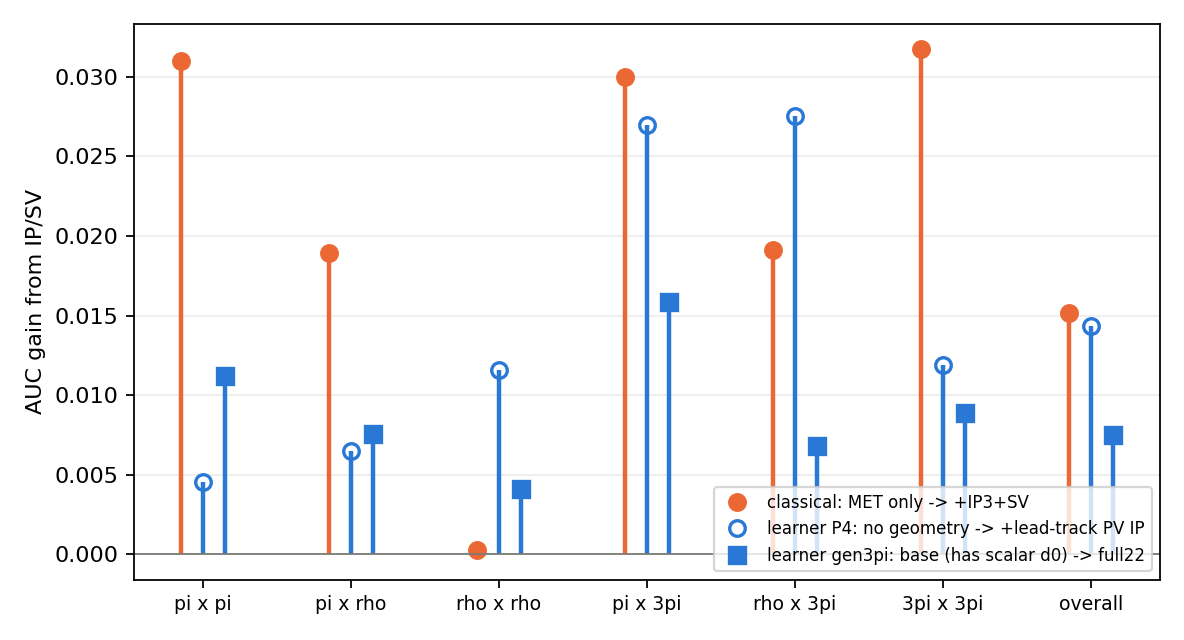
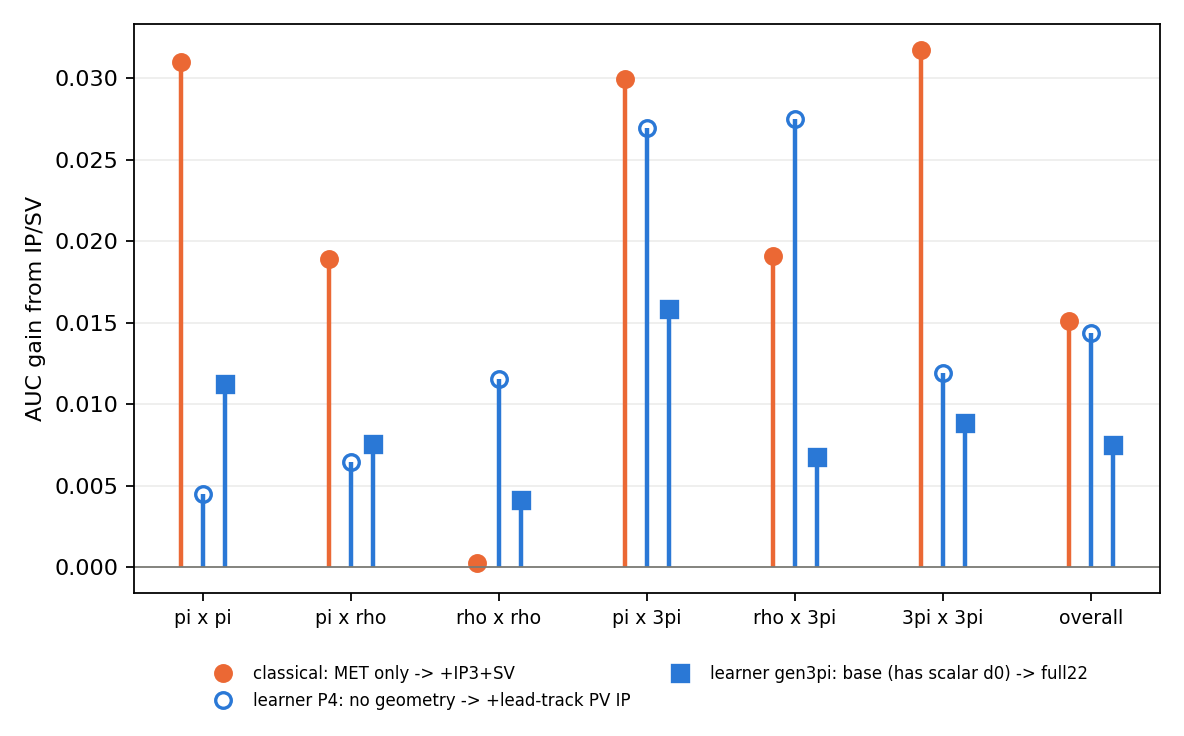
atlas_classical_posterior: README with corrected results

diff --git a/analysis/atlas_classical_posterior/README.md b/analysis/atlas_classical_posterior/README.md
@@ -13,8 +13,12 @@ Responses (IP azimuth, SV angle, MET, x prior) are fitted on TRAIN.
 | `make_figures.py` | three figures in `results/` |
 | `rhosplit.py`, `yres.py`, `rhok.py` | rho diagnostics (mode migration split, energy-asymmetry resolution, h_k vs reco visible mass) |
 
-Result: the classical posterior reaches AUC 0.577 (IP+SV) / 0.581 (+parent mass) vs 0.629 for the
-main-line learner; exact MET, an anisotropic MET model and an empirical x prior do not change this.
-The gap sits in rho: on reco rho sides with an unphysical reco visible mass (>1.2 GeV, 17% of
-correct-rho sides) the exact-formula polarimeter loses its longitudinal component, while the learner
-does not.  For pi the classical estimator matches the learner given the same geometry.
+Result (corrected version: |M|^2_unpol per side draw for rho/3pi, rho shell mass capped at the TRAIN
+95% quantile 1.11 GeV): the classical posterior reaches AUC 0.581 (IP+SV) / 0.590 (+parent mass) vs
+0.629 for the main-line learner (first version without |M|^2: 0.577 / 0.581).  Exact MET (oracle)
+gives 0.595, an anisotropic MET model and an empirical x prior do not change the picture, and a
+cross-fit combination adds +0.0006 to the learner.  The gap sits in pairs with rho (rho x rho -0.047):
+there the exact formula evaluated on reco visible rho with the truth neutrinos already caps at 0.606
+(learner 0.621), and the classical neutrino posterior loses most of the rest.  With exact MET the
+classical matches the learner in 3pi x 3pi and uses the SV more strongly (+0.03 vs +0.009).
+`review_checks.py` and `results/review_checks_and_rho_unpol.txt`: review follow-up checks.
